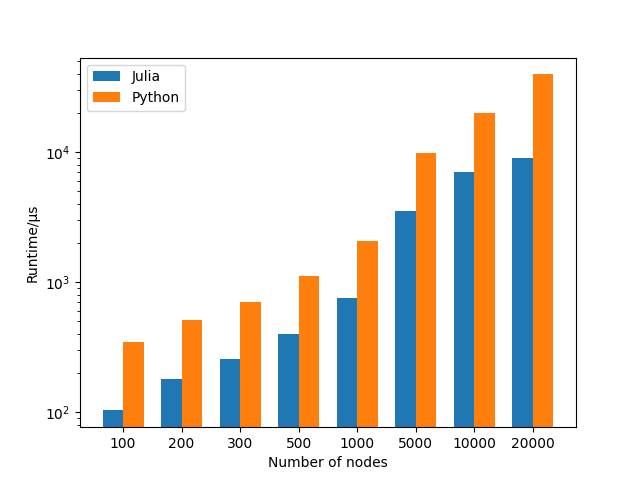
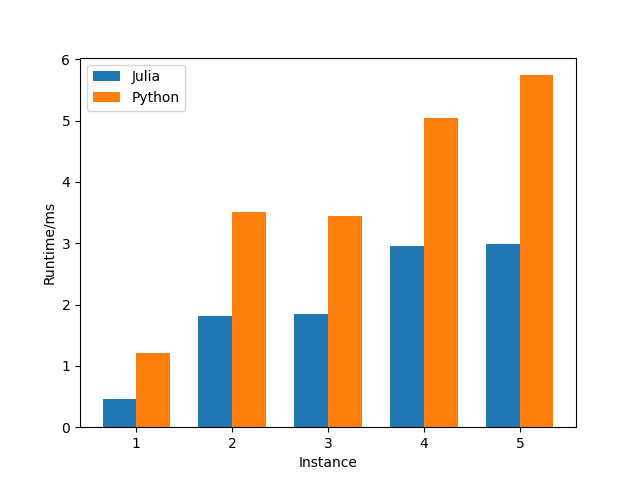
new differentiation benchmarking

diff --git a/charts.py b/charts.py
@@ -1,9 +1,9 @@
 import numpy as np
 import matplotlib.pyplot as plt
 
-n = [100, 200, 300, 500, 1000, 5000, 10000, 20000]
-julia_times =  [103.5, 181, 259, 403, 761, 3.5*1000, 7*1000, 9*1000]
-python_times = [348, 512, 710, 1.11*1000, 2070, 9890, 20000, 39600]
+n = [1, 2, 3, 4, 5]
+julia_times =  [458.7/1000, 1.82, 1.85, 2.96, 2.98]
+python_times = [1.21, 3.51, 3.45, 5.05, 5.74]
 
 N = len(n)
 
@@ -17,11 +17,11 @@ p2 = ax.bar(ind + width, python_times, width, bottom=0)
 
 ax.set_xticks(ind + width / 2)
 ax.set_xticklabels(n)
-ax.set_xlabel('Number of nodes')
+ax.set_xlabel('Instance')
 
-ax.set_yscale('log')
+# ax.set_yscale('log')
 ax.autoscale_view()
-ax.set_ylabel('Runtime/μs')
+ax.set_ylabel('Runtime/ms')
 
 ax.legend((p1[0], p2[0]), ('Julia', 'Python'))
 

diff --git a/charts/Differentiation.py b/charts/Differentiation.py
@@ -1,9 +1,9 @@
 import numpy as np
 import matplotlib.pyplot as plt
 
-n = [100, 200, 300, 500, 1000, 5000, 10000, 20000]
-julia_times =  [103.5, 181, 259, 403, 761, 3.5*1000, 7*1000, 9*1000]
-python_times = [348, 512, 710, 1.11*1000, 2070, 9890, 20000, 39600]
+n = [1, 2, 3, 4, 5]
+julia_times =  [458.7/1000, 1.82, 1.85, 2.96, 2.98]
+python_times = [1.21, 3.51, 3.45, 5.05, 5.74]
 
 N = len(n)
 
@@ -17,11 +17,11 @@ p2 = ax.bar(ind + width, python_times, width, bottom=0)
 
 ax.set_xticks(ind + width / 2)
 ax.set_xticklabels(n)
-ax.set_xlabel('Number of nodes')
+ax.set_xlabel('Instance')
 
-ax.set_yscale('log')
+# ax.set_yscale('log')
 ax.autoscale_view()
-ax.set_ylabel('Runtime/μs')
+ax.set_ylabel('Runtime/ms')
 
 ax.legend((p1[0], p2[0]), ('Julia', 'Python'))
 

diff --git a/results.md b/results.md
@@ -39,11 +39,8 @@ We give julia times followed by python times
 
 ## Differentiation
 
-* n = 100, 103.5μs / 348μs
-* n = 200, 181μs / 512μs
-* n = 300, 259μs / 710μs
-* n = 500, 403μs / 1.11ms
-* n = 1000, 761μs / 2.07ms
-* n = 5000, 3.5ms / 9.89ms
-* n = 10000, 7ms / 20ms
-* n = 20000, 9ms / 39.6ms
+* Form 1 - 458.7μs / 1.21ms
+* Form 2 - 1.82ms / 3.51ms
+* Form 3 - 1.85ms / 3.45ms
+* Form 4 - 2.96ms / 5.05ms
+* Form 5 - 2.98ms / 5.74ms
